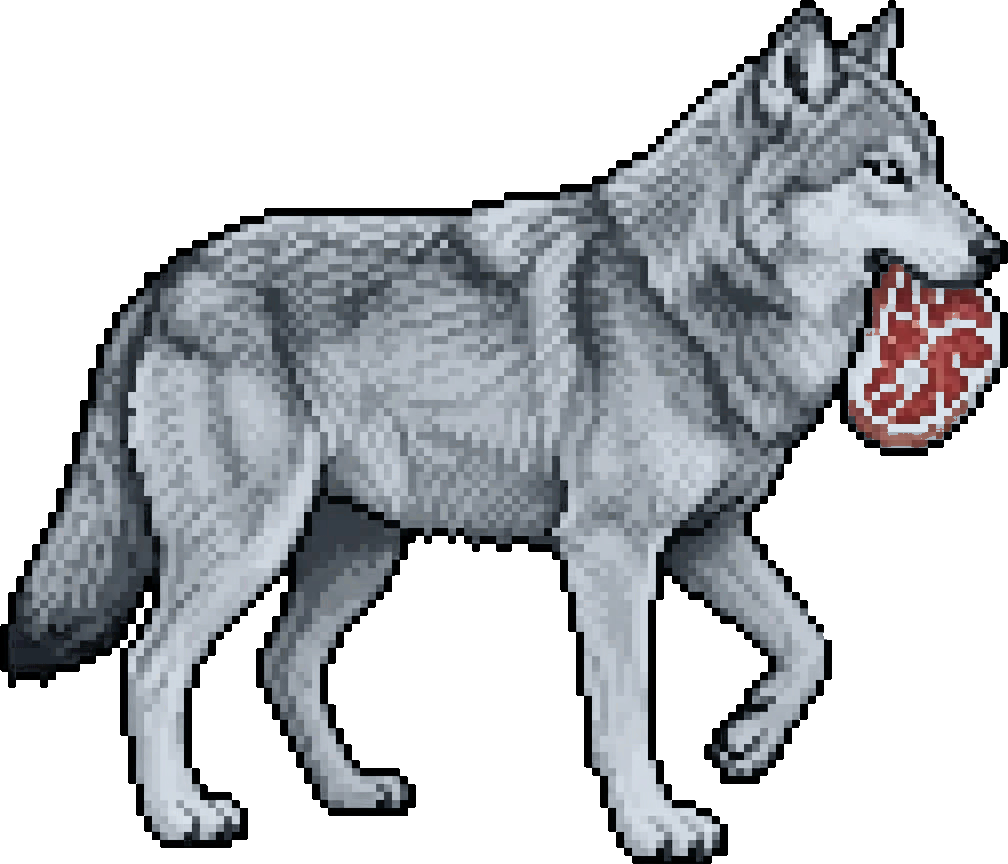
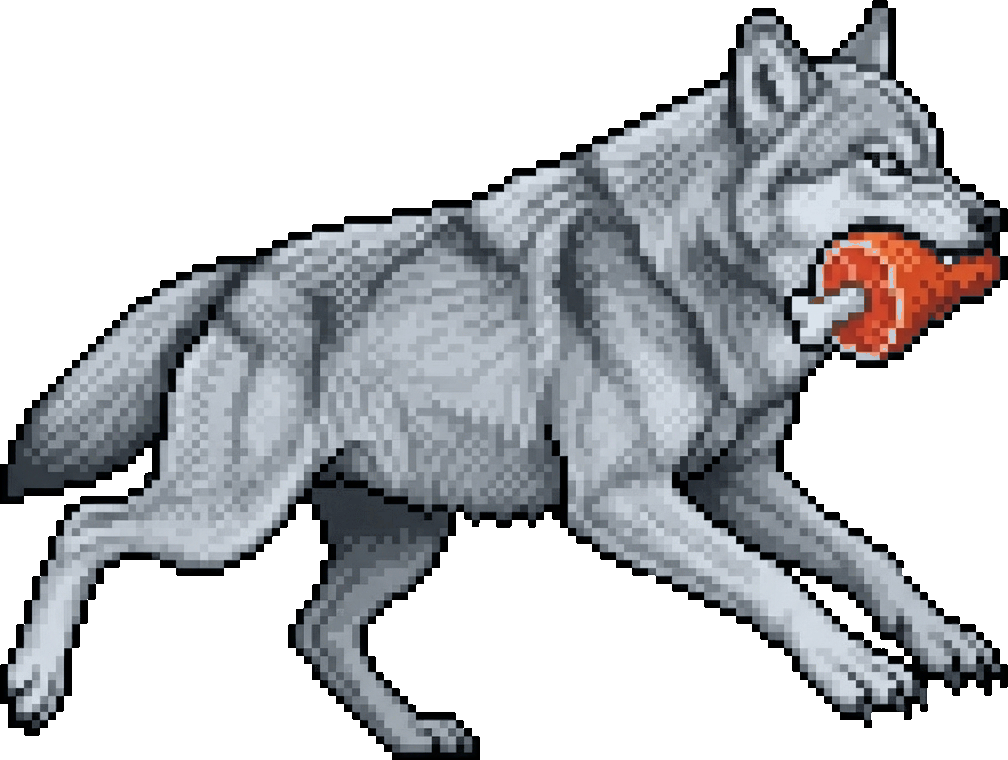
灰狼的站、撲咬、叼肉換成重畫的（筆觸和其他姿勢一致）
Claude-Session: https://claude.ai/code/session_01HkqM82v9towmCBuEomSQC3

diff --git a/prototypes/hd2d_tactical/prep_wolf.py b/prototypes/hd2d_tactical/prep_wolf.py
@@ -72,6 +72,11 @@ def main():
     r3 = os.path.join(pg.SRC, "wolf_r3_submit.jpg")
     if os.path.exists(r3):
         cuts["submit"] = match_palette(pg.cut(r3, "green"), cuts["walk"])
+    # 站、撲咬、叼肉 2026-11-11 換成重畫的（wolf_r5_*.jpg，ChatGPT 照第二輪走路畫：同樣淺灰、粗框；取代第一輪調色），照第二輪走路的色盤調色
+    for n in ["stand", "lunge", "carry"]:
+        r5 = os.path.join(pg.SRC, "wolf_r5_%s.jpg" % n)
+        if os.path.exists(r5):
+            cuts[n] = match_palette(pg.cut(r5, "green"), cuts["walk"])
     ref = cuts["walk"].width
     # 咬住不放 2026-11-08（wolf_r4_hold.png，ChatGPT：壓低身子、前腳往前撐、重心在後，咬住往後拉；1536×1024 畫布不同 → 直接指定寬幾格）
     fixed_cells = {}

diff --git a/docs/progress.md b/docs/progress.md
@@ -5,7 +5,7 @@
 ## 目前階段
 （2026-11-08）Phase 2l 小型搶食者的戰術戰鬥寫入 SPEC（使用者同意；選 B 加猞猁：郊狼、狼獾、猞猁改成戰術戰鬥，紅狐維持選單式）。CLAUDE.md 任務順序加第 20 項。4 步實作完成，待試玩（`docs/playtest-checklist.md` 的 TC 段：郊狼、狼獾、猞猁）。
 - [x] Phase 2l 小型搶食者的戰術戰鬥（實作完成，待試玩）
-  - [x] 1. 共用的搶食者行為與郊狼一對（2026-11-08）：`opponents.coyote`（`thief: true`、血量 35、移動與衝刺都 4 格〔叼著一段肉 3 格，狼衝刺追得上〕、力量 30、速度 70；動作 咬〔3～7，命中 0.7〕、偷 steal、站定 threaten、走、逃），放棄比例 0.75、耐心 40、`ai.thief`（decoy_dist 2、每回合耐心 −3、你在旁邊時硬偷 25%、叼著肉被咬中甩掉 80%、每隻最多偷 1 次）。`TacticalCombat._ai_thief`：叼著肉往離你遠的邊緣跑、到邊緣就帶走（fled why `stole`，`meat_stolen()`）；被咬回咬；兩隻時第一隻 decoy 在你附近 2 格繞、站定盯著你，搭檔偷到、或走了就改去偷；thief 繞到殘骸離你最遠的一邊扯一塊。交給本能（你與同伴）對搶食者用新的 `guard_food`：先咬叼著肉的、再來是殘骸旁的，引開的那隻離殘骸遠就不追、回殘骸旁（原本照熊的打法叼一塊就撤，四成把殘骸讓給郊狼）。主遊戲：`game.animals` 加 coyote、`game.groups.coyote` 2（第二隻從上或下邊緣進場）；牠們都走了＝routed → drove_off，殘骸＋地上的寫回，被偷走的就沒了；你撤出＝殘骸丟給牠們。原型情境 13 `coyote_pair`。郊狼的 HD-2D 圖（同日，ChatGPT 5 張：站、走、咬、叼肉、逃跑，`arts/hd2d_2026-11-06/coyote_*.jpg`，`prep_black_wolf.py` 的 `SETS`，約灰狼的八成長）：`combat_hd2d.json` units.coyote 的 hd2d_poses；`CombatHD2D._unit_art` 加兩種姿勢：叼著肉 carry、逃走或帶著肉跑出去 run（有這兩種圖的對手才用）。環境優化（同日，ChatGPT）：夏天的雲杉 `spruce`（取代參考圖裁出來、枝葉有白點的深色松樹；`tree_mix`、`trees`、`border`、山地與牧場的 map_sets 都換成雲杉，冬天還是積雪松樹）；苔原地面 `tex_tundra`（苔蘚、地衣、矮灌木）用在苔原地圖的開闊地、密林、樹格與岩坡頂；森林密林的地面 `tex_forest_floor`（針葉、苔蘚）用在預設的密林 f（顏色倍率 0.62／0.72／0.6 → 0.95）。這兩張材質是 1408×768、左右 704 一個循環、上下不重複 → 取 704×704、上下接縫用多出的 64 行淡入（`prep_props.py` 的 `SEAM`），縮成 176（4 格重複一次）；苔原降低對比 0.65。再補（同日，ChatGPT 5 張）：秋天的白樺 `birch_autumn`（秋天時 tree_mix 的白樺換成這張，`autumn_swap`；兩個畫面設 `cfg.season`）；北美馴鹿、大角羊的殘骸（`prep_gemini_prey.py` 的 `carcass_caribou`〔頭在左，翻轉〕、`carcass_bighorn`，`combat_hd2d.json` 的 `carcass.hd`；原本用鹿的殘骸）；牧場的小木屋 `cabin`（約 3 格寬，放在地圖上緣外面，`edge_props.extra`）與乾草堆 `haystack`（開闊地 2.5% 的格子，牧場的 map_sets）。牧場沒有截圖（測試工具開不了牧場地圖）。再補（同日，ChatGPT）：秋天的灌木 `shrub_autumn`（autumn_swap：灌木秋天換成這張）、另一種形狀的灌木 `shrub_b`（夏天和原本的灌木輪替，增加變化；兩張都比原本的寬 → fixed_scale 0.4 約 0.9 格）；馬鹿、白尾鹿、野牛的殘骸改用 ChatGPT 畫的（躺著、肋骨露出，和駝鹿、馴鹿、大角羊一致；`prep_gemini_prey.py` 的 carcass_elk／deer／bison，`prep_pixellab.py` 不再輸出這三張）。殘骸依階段（使用者要求，圖之後慢慢補）：戰術戰鬥的殘骸帶 `stage`（current_feeding 的 life_stage：juvenile 幼體、buck 雄性、adult 雌性／成年），`carcass.hd` 先找 `<動物>.<階段>` → `<動物>` → `_default`；幼體沒有專屬圖時照 `juvenile_scale` 0.65 縮小（`CombatHD2D`）。白尾鹿、騾鹿明確對應到鹿的殘骸。使用者回報截圖裡灰熊有黑色色塊：是樹的影子打在灰熊（角色的 Sprite3D 會接受影子）。`HD2DBoard.unit` 的角色改用自己的材質（`disable_receive_shadows`、alpha scissor、頂點顏色當 albedo 保留 modulate；AtlasTexture 用底圖），光線與時段的顏色照常，只是不接受別的物件投下的影子；樹、物件還是會接受影子。雄性殘骸（同日，ChatGPT 一張畫兩隻，`carcass_bulls_sheet.jpg` 分別裁）：公馬鹿 `hd_carcass_elk_bull`、白尾鹿雄鹿 `hd_carcass_deer_buck` → `carcass.hd` 的 `elk.buck`、`white_tailed_deer.buck`。駝鹿、北美馴鹿在資料裡沒有 buck 階段（公母只是畫面上隨機），雄、雌殘骸要先在遊戲狀態記下性別才分得出來。公駝鹿殘骸 `hd_carcass_moose_bull` 已處理、`carcass.hd` 加了 `moose.buck`，等遊戲記下駝鹿的性別才會用到；白尾鹿雄鹿的第二版（多畫了一副掉落的鹿角）存著沒用。使用者回報戰術狩獵（HD-2D）兩個問題：(1) 狼一直面向右：面向原本只在 2D 畫面算（`TacticalHuntView._draw_map`），HD-2D 不會呼叫 → `HuntHD2D` 自己記上一步的位置，照移動方向轉身、開場朝向獵物。(2) 觀察後看不出誰最弱：原本只在腳下畫一小塊橘色，被圖蓋住 → 頭上寫「最弱」（`tactical.hd.weakest`）、橘色框（選中的目標也是最弱時用橘框代替黃框）。截圖 `docs/screenshots/hunt_weakest_facing.png`。捲動地圖（使用者：想用滑鼠上下左右移動地圖）：原本就有右鍵／中鍵拖曳與滾輪縮放，再加上左鍵拖曳（移動超過 8 像素才算拖曳，放開時不算點擊；點格子改成放開時才算）、滑鼠移到畫面邊緣 24 像素內自動捲動、方向鍵捲動（`HD2DBoard._process`，設定 `cfg.pan`）。只有拉近時才捲得動（整張地圖都在畫面裡時鏡頭不動）。要目視：邊緣捲動會不會在滑鼠移去按鈕時誤觸。能走的格子改成點自己的狼才顯示（使用者要求，戰術狩獵與戰鬥、HD-2D 與 2D 都是）：`range_shown`；狩獵：點狼顯示／收起，顯示時點格子才移動，撲咬的紅框、前截鎖喉一直都能點；戰鬥：點狼顯示／收起，顯示時點格子＝選這回合要走到哪（選完收起、選的那一格保留），再點狼或那一格取消。提示文字 `tactical.ui.intro`、`tcombat.hint` 跟著改。北美馴鹿母鹿殘骸 `hd_carcass_caribou_cow`：鹿群多半是母鹿 → 當馴鹿的預設殘骸，原本的公鹿殘骸改成 `caribou.buck`（等遊戲記下性別）。駝鹿、北美馴鹿的公母（使用者同意做法 1：只換圖）：`tactical_hunt.json` 的 `game.male_share`（駝鹿 0.5、馴鹿 0.34）→ `TacticalHunt.setup_from_game` 每隻成獸擲一次 `male`；`HuntHD2D._species_key` 照 male 用公／母的圖（原本是畫面自己隨機）；獵到公的時 `hunt` 記 male → `current_feeding.male`（離開留下的殘骸、回到殘骸都帶著）→ 戰術戰鬥的殘骸階段當 `buck`，`carcass.hd` 的 `moose.buck`、`caribou.buck` 用公駝鹿、公馴鹿的殘骸。肉量、規則不變。R-125 加第 13 段。騾鹿母鹿、雄鹿的殘骸（2026-11-09，ChatGPT）：`hd_carcass_mule_deer`、`hd_carcass_mule_deer_buck` → `carcass.hd` 的 `mule_deer`、`mule_deer.buck`（原本借白尾鹿的）。幼體的殘骸（同日，ChatGPT 7 張：小白尾鹿、小騾鹿、小馬鹿、小駝鹿、小北美馴鹿、小野牛、小大角羊）→ `carcass.hd` 的 `<動物>.juvenile`，寬度約成年的六成多；有專屬圖時不再用 juvenile_scale 縮小。預覽 `docs/screenshots/carcass_young_preview.png`。灰狼「咬住不放」（同日，ChatGPT 出了 6 張只有一張能用：壓低身子、前腳往前撐、重心在後，`arts/hd2d_2026-11-06/wolf_r4_hold.png`，`prep_wolf.py` 照第二輪走路的色盤調色、寬 1.55 格 → `hdwolf_hold`）。戰術狩獵的狼原本一直是站的圖，改成跟著動作換（`HuntHD2D._wolf_pose`，`hunt_hd2d.json` 的 `wolf_poses`）：咬住獵物（或獵到了）咬住不放、潛行 stalk、小跑或衝刺走路兩格輪流、沒動站著；同伴還是站的圖。咬喉、撲倒不另外出圖（使用者同意：咬喉也用咬住；壓倒之後獵物換成殘骸圖可以之後再接）。狼獾的 HD-2D 圖（同日，ChatGPT 4 張：站、走、撲咬〔張嘴伸爪，也當示威、守食物〕、吃，`wolverine_*.jpg`，含尾巴約灰狼的七成五長）：先處理好、`combat_hd2d.json` 加 units.wolverine，第 2 步狼獾進戰術戰鬥時用。模擬 `tactical_thief_sim`：1 歲 白尾鹿 被偷走 1.37 段／馬鹿 1.46，3 歲 0.93／1.03，你受傷 0～0.6，約 7 回合，都是牠們走了（選單式「不理」固定少 1 段，第 4 步再校準）。R-125 加第 10 段。
+  - [x] 1. 共用的搶食者行為與郊狼一對（2026-11-08）：`opponents.coyote`（`thief: true`、血量 35、移動與衝刺都 4 格〔叼著一段肉 3 格，狼衝刺追得上〕、力量 30、速度 70；動作 咬〔3～7，命中 0.7〕、偷 steal、站定 threaten、走、逃），放棄比例 0.75、耐心 40、`ai.thief`（decoy_dist 2、每回合耐心 −3、你在旁邊時硬偷 25%、叼著肉被咬中甩掉 80%、每隻最多偷 1 次）。`TacticalCombat._ai_thief`：叼著肉往離你遠的邊緣跑、到邊緣就帶走（fled why `stole`，`meat_stolen()`）；被咬回咬；兩隻時第一隻 decoy 在你附近 2 格繞、站定盯著你，搭檔偷到、或走了就改去偷；thief 繞到殘骸離你最遠的一邊扯一塊。交給本能（你與同伴）對搶食者用新的 `guard_food`：先咬叼著肉的、再來是殘骸旁的，引開的那隻離殘骸遠就不追、回殘骸旁（原本照熊的打法叼一塊就撤，四成把殘骸讓給郊狼）。主遊戲：`game.animals` 加 coyote、`game.groups.coyote` 2（第二隻從上或下邊緣進場）；牠們都走了＝routed → drove_off，殘骸＋地上的寫回，被偷走的就沒了；你撤出＝殘骸丟給牠們。原型情境 13 `coyote_pair`。郊狼的 HD-2D 圖（同日，ChatGPT 5 張：站、走、咬、叼肉、逃跑，`arts/hd2d_2026-11-06/coyote_*.jpg`，`prep_black_wolf.py` 的 `SETS`，約灰狼的八成長）：`combat_hd2d.json` units.coyote 的 hd2d_poses；`CombatHD2D._unit_art` 加兩種姿勢：叼著肉 carry、逃走或帶著肉跑出去 run（有這兩種圖的對手才用）。環境優化（同日，ChatGPT）：夏天的雲杉 `spruce`（取代參考圖裁出來、枝葉有白點的深色松樹；`tree_mix`、`trees`、`border`、山地與牧場的 map_sets 都換成雲杉，冬天還是積雪松樹）；苔原地面 `tex_tundra`（苔蘚、地衣、矮灌木）用在苔原地圖的開闊地、密林、樹格與岩坡頂；森林密林的地面 `tex_forest_floor`（針葉、苔蘚）用在預設的密林 f（顏色倍率 0.62／0.72／0.6 → 0.95）。這兩張材質是 1408×768、左右 704 一個循環、上下不重複 → 取 704×704、上下接縫用多出的 64 行淡入（`prep_props.py` 的 `SEAM`），縮成 176（4 格重複一次）；苔原降低對比 0.65。再補（同日，ChatGPT 5 張）：秋天的白樺 `birch_autumn`（秋天時 tree_mix 的白樺換成這張，`autumn_swap`；兩個畫面設 `cfg.season`）；北美馴鹿、大角羊的殘骸（`prep_gemini_prey.py` 的 `carcass_caribou`〔頭在左，翻轉〕、`carcass_bighorn`，`combat_hd2d.json` 的 `carcass.hd`；原本用鹿的殘骸）；牧場的小木屋 `cabin`（約 3 格寬，放在地圖上緣外面，`edge_props.extra`）與乾草堆 `haystack`（開闊地 2.5% 的格子，牧場的 map_sets）。牧場沒有截圖（測試工具開不了牧場地圖）。再補（同日，ChatGPT）：秋天的灌木 `shrub_autumn`（autumn_swap：灌木秋天換成這張）、另一種形狀的灌木 `shrub_b`（夏天和原本的灌木輪替，增加變化；兩張都比原本的寬 → fixed_scale 0.4 約 0.9 格）；馬鹿、白尾鹿、野牛的殘骸改用 ChatGPT 畫的（躺著、肋骨露出，和駝鹿、馴鹿、大角羊一致；`prep_gemini_prey.py` 的 carcass_elk／deer／bison，`prep_pixellab.py` 不再輸出這三張）。殘骸依階段（使用者要求，圖之後慢慢補）：戰術戰鬥的殘骸帶 `stage`（current_feeding 的 life_stage：juvenile 幼體、buck 雄性、adult 雌性／成年），`carcass.hd` 先找 `<動物>.<階段>` → `<動物>` → `_default`；幼體沒有專屬圖時照 `juvenile_scale` 0.65 縮小（`CombatHD2D`）。白尾鹿、騾鹿明確對應到鹿的殘骸。使用者回報截圖裡灰熊有黑色色塊：是樹的影子打在灰熊（角色的 Sprite3D 會接受影子）。`HD2DBoard.unit` 的角色改用自己的材質（`disable_receive_shadows`、alpha scissor、頂點顏色當 albedo 保留 modulate；AtlasTexture 用底圖），光線與時段的顏色照常，只是不接受別的物件投下的影子；樹、物件還是會接受影子。雄性殘骸（同日，ChatGPT 一張畫兩隻，`carcass_bulls_sheet.jpg` 分別裁）：公馬鹿 `hd_carcass_elk_bull`、白尾鹿雄鹿 `hd_carcass_deer_buck` → `carcass.hd` 的 `elk.buck`、`white_tailed_deer.buck`。駝鹿、北美馴鹿在資料裡沒有 buck 階段（公母只是畫面上隨機），雄、雌殘骸要先在遊戲狀態記下性別才分得出來。公駝鹿殘骸 `hd_carcass_moose_bull` 已處理、`carcass.hd` 加了 `moose.buck`，等遊戲記下駝鹿的性別才會用到；白尾鹿雄鹿的第二版（多畫了一副掉落的鹿角）存著沒用。使用者回報戰術狩獵（HD-2D）兩個問題：(1) 狼一直面向右：面向原本只在 2D 畫面算（`TacticalHuntView._draw_map`），HD-2D 不會呼叫 → `HuntHD2D` 自己記上一步的位置，照移動方向轉身、開場朝向獵物。(2) 觀察後看不出誰最弱：原本只在腳下畫一小塊橘色，被圖蓋住 → 頭上寫「最弱」（`tactical.hd.weakest`）、橘色框（選中的目標也是最弱時用橘框代替黃框）。截圖 `docs/screenshots/hunt_weakest_facing.png`。捲動地圖（使用者：想用滑鼠上下左右移動地圖）：原本就有右鍵／中鍵拖曳與滾輪縮放，再加上左鍵拖曳（移動超過 8 像素才算拖曳，放開時不算點擊；點格子改成放開時才算）、滑鼠移到畫面邊緣 24 像素內自動捲動、方向鍵捲動（`HD2DBoard._process`，設定 `cfg.pan`）。只有拉近時才捲得動（整張地圖都在畫面裡時鏡頭不動）。要目視：邊緣捲動會不會在滑鼠移去按鈕時誤觸。能走的格子改成點自己的狼才顯示（使用者要求，戰術狩獵與戰鬥、HD-2D 與 2D 都是）：`range_shown`；狩獵：點狼顯示／收起，顯示時點格子才移動，撲咬的紅框、前截鎖喉一直都能點；戰鬥：點狼顯示／收起，顯示時點格子＝選這回合要走到哪（選完收起、選的那一格保留），再點狼或那一格取消。提示文字 `tactical.ui.intro`、`tcombat.hint` 跟著改。北美馴鹿母鹿殘骸 `hd_carcass_caribou_cow`：鹿群多半是母鹿 → 當馴鹿的預設殘骸，原本的公鹿殘骸改成 `caribou.buck`（等遊戲記下性別）。駝鹿、北美馴鹿的公母（使用者同意做法 1：只換圖）：`tactical_hunt.json` 的 `game.male_share`（駝鹿 0.5、馴鹿 0.34）→ `TacticalHunt.setup_from_game` 每隻成獸擲一次 `male`；`HuntHD2D._species_key` 照 male 用公／母的圖（原本是畫面自己隨機）；獵到公的時 `hunt` 記 male → `current_feeding.male`（離開留下的殘骸、回到殘骸都帶著）→ 戰術戰鬥的殘骸階段當 `buck`，`carcass.hd` 的 `moose.buck`、`caribou.buck` 用公駝鹿、公馴鹿的殘骸。肉量、規則不變。R-125 加第 13 段。騾鹿母鹿、雄鹿的殘骸（2026-11-09，ChatGPT）：`hd_carcass_mule_deer`、`hd_carcass_mule_deer_buck` → `carcass.hd` 的 `mule_deer`、`mule_deer.buck`（原本借白尾鹿的）。幼體的殘骸（同日，ChatGPT 7 張：小白尾鹿、小騾鹿、小馬鹿、小駝鹿、小北美馴鹿、小野牛、小大角羊）→ `carcass.hd` 的 `<動物>.juvenile`，寬度約成年的六成多；有專屬圖時不再用 juvenile_scale 縮小。預覽 `docs/screenshots/carcass_young_preview.png`。灰狼的站、撲咬、叼肉重畫（2026-11-11，ChatGPT 照第二輪走路畫，`wolf_r5_*.jpg`，`prep_wolf.py` 照走路的色盤調色）：取代第一輪調色的舊圖，現在灰狼所有姿勢的筆觸一致。預覽 `docs/screenshots/wolf_poses_r5.png`。灰狼「咬住不放」（同日，ChatGPT 出了 6 張只有一張能用：壓低身子、前腳往前撐、重心在後，`arts/hd2d_2026-11-06/wolf_r4_hold.png`，`prep_wolf.py` 照第二輪走路的色盤調色、寬 1.55 格 → `hdwolf_hold`）。戰術狩獵的狼原本一直是站的圖，改成跟著動作換（`HuntHD2D._wolf_pose`，`hunt_hd2d.json` 的 `wolf_poses`）：咬住獵物（或獵到了）咬住不放、潛行 stalk、小跑或衝刺走路兩格輪流、沒動站著；同伴還是站的圖。咬喉、撲倒不另外出圖（使用者同意：咬喉也用咬住；壓倒之後獵物換成殘骸圖可以之後再接）。狼獾的 HD-2D 圖（同日，ChatGPT 4 張：站、走、撲咬〔張嘴伸爪，也當示威、守食物〕、吃，`wolverine_*.jpg`，含尾巴約灰狼的七成五長）：先處理好、`combat_hd2d.json` 加 units.wolverine，第 2 步狼獾進戰術戰鬥時用。模擬 `tactical_thief_sim`：1 歲 白尾鹿 被偷走 1.37 段／馬鹿 1.46，3 歲 0.93／1.03，你受傷 0～0.6，約 7 回合，都是牠們走了（選單式「不理」固定少 1 段，第 4 步再校準）。R-125 加第 10 段。
   - [x] 2. 狼獾（含分肉）（2026-11-08）：`opponents.wolverine`（`shareable: true`、移動 3／衝刺 4、動作 咬、守食物、吃、走、逃；用一般的 AI：到殘骸旁吃、你靠近時守食物），能力與血量照狼獾這隻 NPC；咬 4～7、守食物 3～5、放棄比例 0.3、耐心 160、bold 0.3～0.8。你方新動作「讓牠一起吃」`share`（有 shareable 的對手、殘骸還有肉時）：結束這一場，outcome `share` → 主遊戲照選單式的分享（先寫回戰術戰鬥後剩下的段數，再少一段、牠離開）。不會想殺你：`_tc_hurt` 對 `never_lethal` 的對手一律不致死（重傷時被打到 0 只會被打倒）。回到殘骸時牠在吃 → 從「對手佔著殘骸」開始（`start_wolverine_combat` 設 tc_layout）。主遊戲的利害倍率 `c.stake_mult` 乘進戰術戰鬥的 stake，一般 AI 的放棄比例 ÷ stake（狼獾在旁邊等你吃完時 0.5 → 比較早放棄，照選單式的 waiting_stake_mult）。交給本能（你）對狼獾也用守殘骸，血量低於 `ally.share_hp` 0.55 就讓牠一起吃。校準（`tactical_thief_sim`，對照選單式強攻型硬打）：3 歲 你在吃時牠來了 趕走 91%、受傷 27（選單式 99%、23），回到殘骸時牠在吃 72%、37；1 歲 30%／10% 趕走、受傷約 38～40，其他讓牠一起吃（選單式 1 歲 60%、受傷 51）。狼獾的 HD-2D 圖接上（units.wolverine）。原型情境 14 `wolverine_carcass`。R-125 加第 11 段。
   - [x] 3. 猞猁（2026-11-08）：`opponents.lynx`（`thief: true`、`cover: "Ttfr"`、`corner_swipe` 0.45、血量 40、叼著雪兔一回合 2.5 格〔你衝刺 4 格〕、動作 揮爪〔4～9〕、走、逃），放棄比例 0.8、耐心 60。`_ai_thief` 叼著東西的那一段：有 cover 時往最近的掩蔽跑（`_cover_goal`：密林、岩坡站上去，樹站到旁邊；都沒有就往邊緣），到了就帶著雪兔不見了（fled why `escaped`）；你貼在旁邊時回頭揮爪；被咬中多半丟下雪兔（ai.thief.drop_on_hit 0.8），沒叼著東西就跳上樹走了（why `gave_up`）。情境的對手可以開場叼著東西（`opponent.carrying`）。主遊戲：`game.animals` 加 lynx、新的起始位置 `layouts.lynx`（你在左邊 3 格外衝過去，牠周圍 `clear_cover` 5 格內的樹、密林、岩坡清掉，不然開場一步就鑽進去）；結果：牠帶著雪兔不見了＝parted（沒搶到），雪兔掉在地上或被你叼走、牠走了＝drove_off（finish_combat 照原本給雪兔）。悄悄叼走失敗時（`lynx_sneak` 回 `tactical`，不再擲回頭抓一下）接著 `start_lynx_combat(true)` 的戰術戰鬥（Game.gd、自動玩家都是）。交給本能用 `guard_food`（先咬叼著東西的）。原型情境 15 `lynx_hare`。猞猁的 HD-2D 圖（ChatGPT 5 張：站、走、揮爪、叼著雪兔跑、示威，約灰狼的八成長）。模擬：搶到雪兔 1 歲 57%、3 歲 66%，受傷約 1，約 3.5 回合（選單式強攻硬搶 100%）。R-125 加第 12 段。
   - [x] 4. 校準（2026-11-08）：郊狼 `steal_when_watched` 0.25 → 0.12、新增 `follow_up` 0.5（引開的那隻在搭檔偷到或走了以後，只有一半機率接著去偷）→ 被偷走 1 歲約 1.1 段、3 歲約 0.8 段（選單式「不理」1 段）；猞猁 `clear_cover` 5 → 6、補上「受傷到放棄線就丟下雪兔」（叼著時也算）→ 搶到雪兔 1 歲 58%、3 歲 71%（選單式 100%）；狼獾不變（3 歲 你在吃時 趕走約 88%、受傷約 30）。一生模擬 `life_pressure` 40 隻（戰術戰鬥／TC_OFF 全部選單式）：每年 7.37／6.25 場戰鬥、每年重傷 0.59／0.53 次（+11%）、戰死 0／0、壽命 10.1／10.0；挨餓 成年 3.2／3.2、老年 8.9／6.8 天（老年多約 2 天，40 隻的雜訊與猞猁、郊狼的損失都有可能，先記著）、餓死 3／2 隻。通過 SPEC 驗收 2（±30%、戰鬥死亡不增加）。

diff --git a/docs/art-request-hd2d-2026-11-06.md b/docs/art-request-hd2d-2026-11-06.md
@@ -7,7 +7,7 @@
 
 **2026-11-08 現況**：戰術狩獵的每一種獵物、戰鬥的每一種對手都有 HD-2D 專屬圖了（下面一、二的表是當時的清單，大多已完成）。環境物件、地面材質、每張地圖的樹與地面也都有了。剩下的都是可選：
 - 重出：大角羊小羊吃草（現在借母羊的）、小野兔警覺（和站很像）、北美馴鹿母鹿警覺（和站很像）、小河狸警覺。
-- 灰狼的站、撲咬、叼肉（第一輪調色，筆觸和其他姿勢不同）。
+- ~~灰狼的站、撲咬、叼肉~~（2026-11-11 已重畫）。
 - 野牛殘骸（ChatGPT 擋掉，暫用馬鹿殘骸調色；可以試 PixelLab）。
 - 黑狼、苔原狼的撤退、倒地、叼肉（現在用灰狼調色）。
 - 洞穴入口冬天版。
